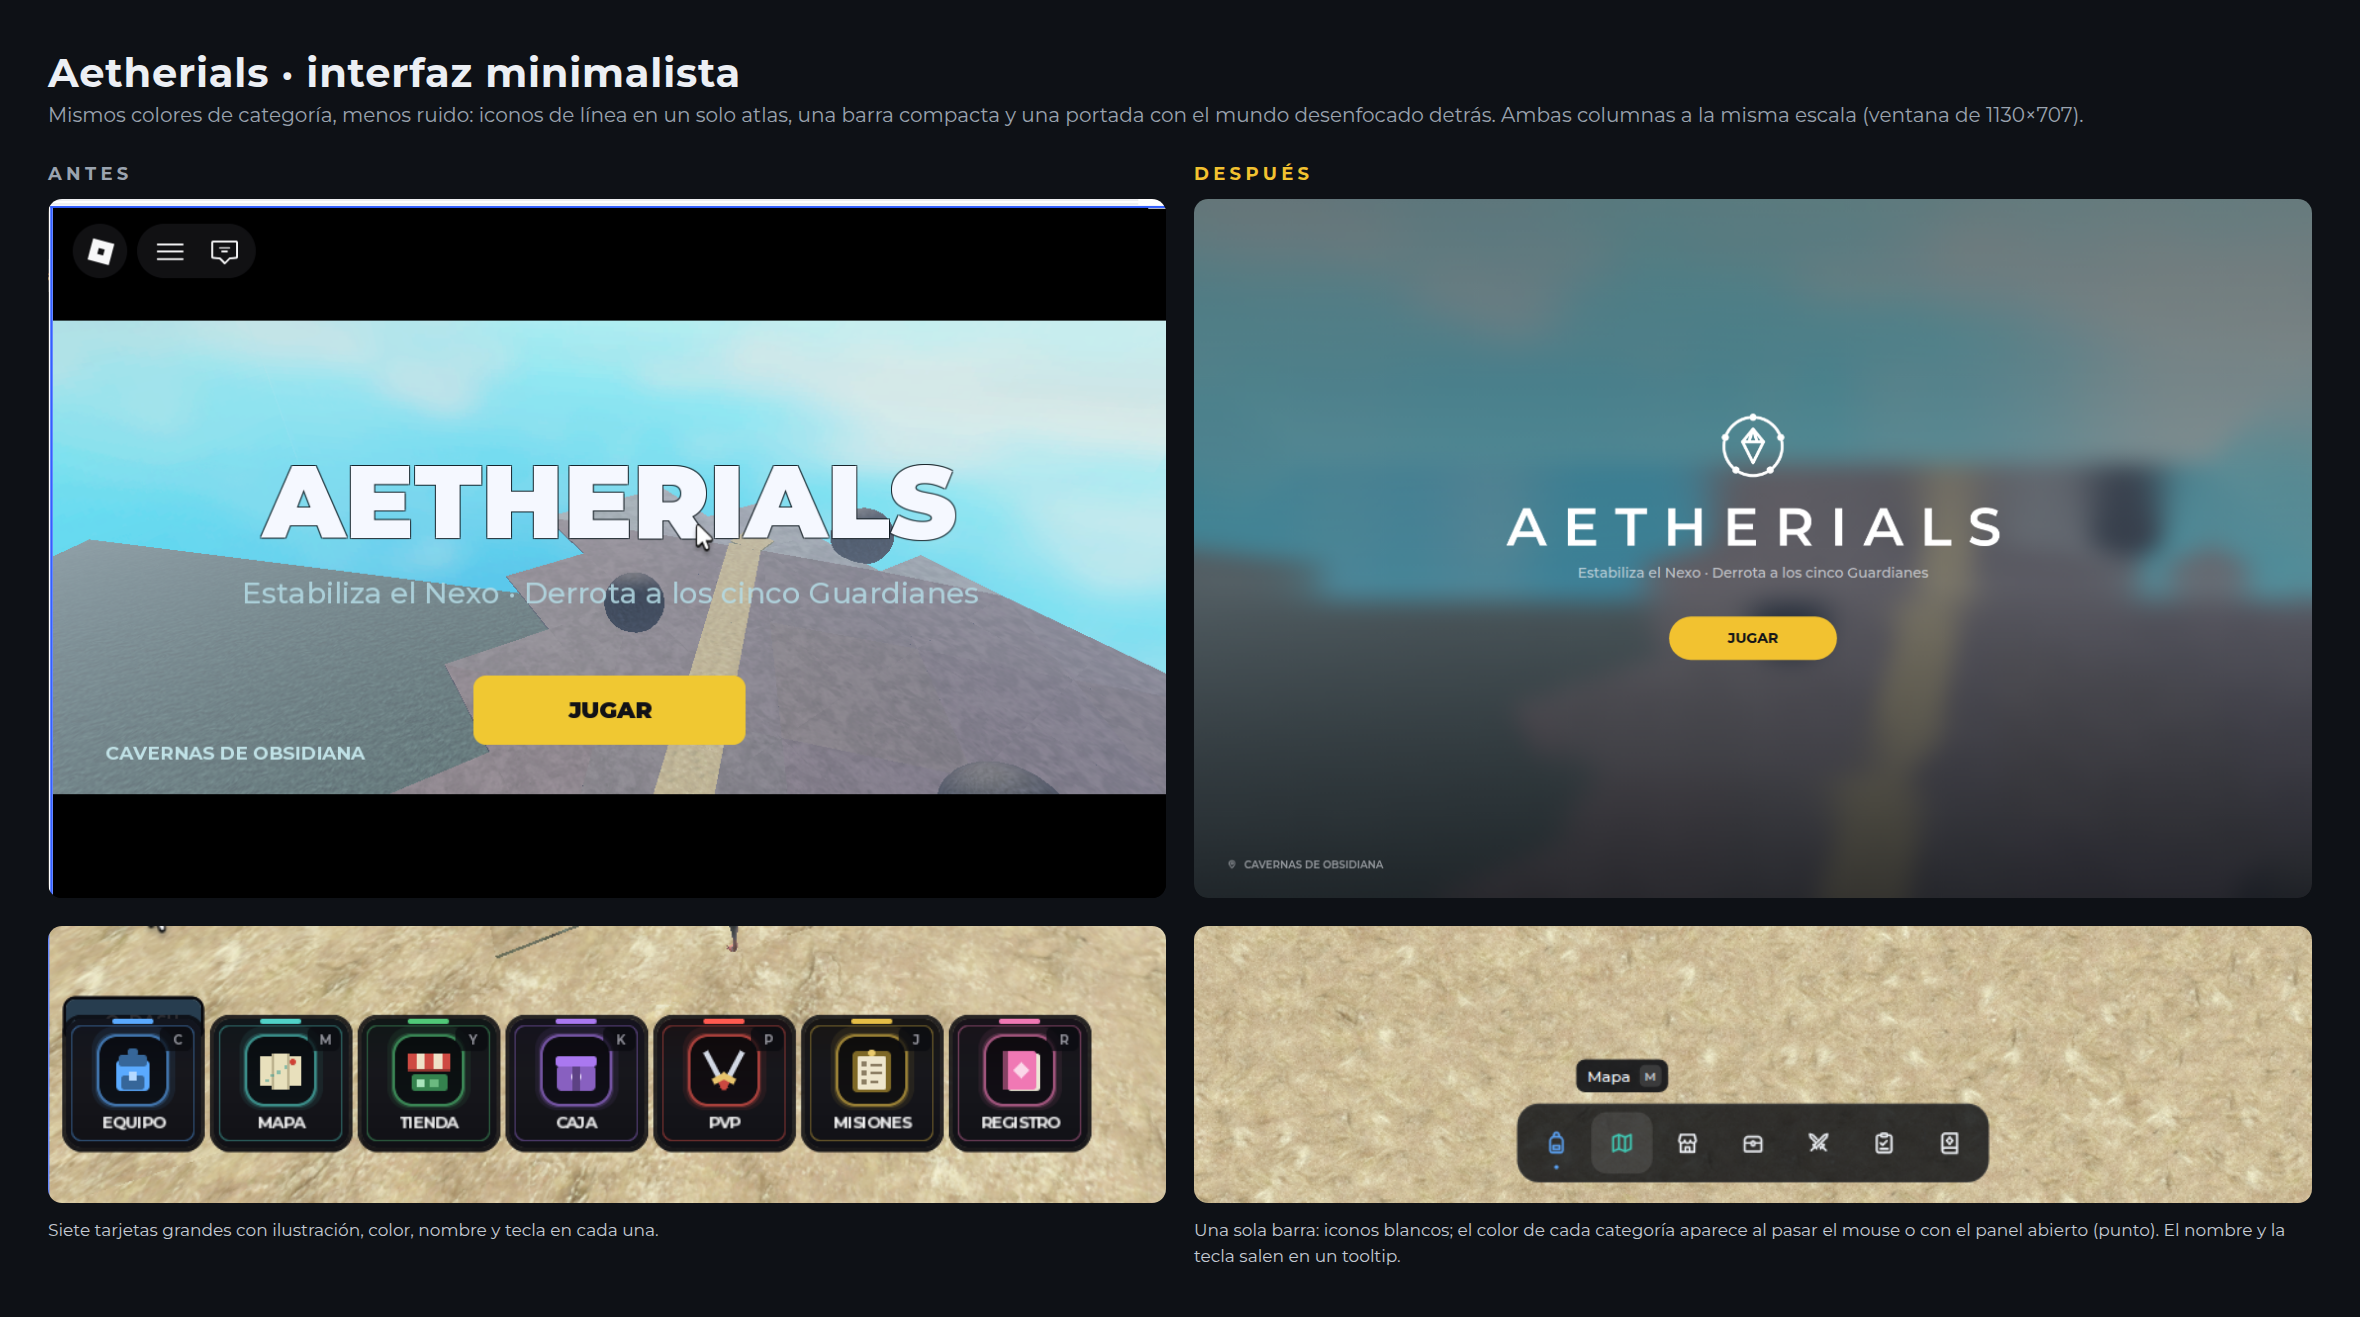
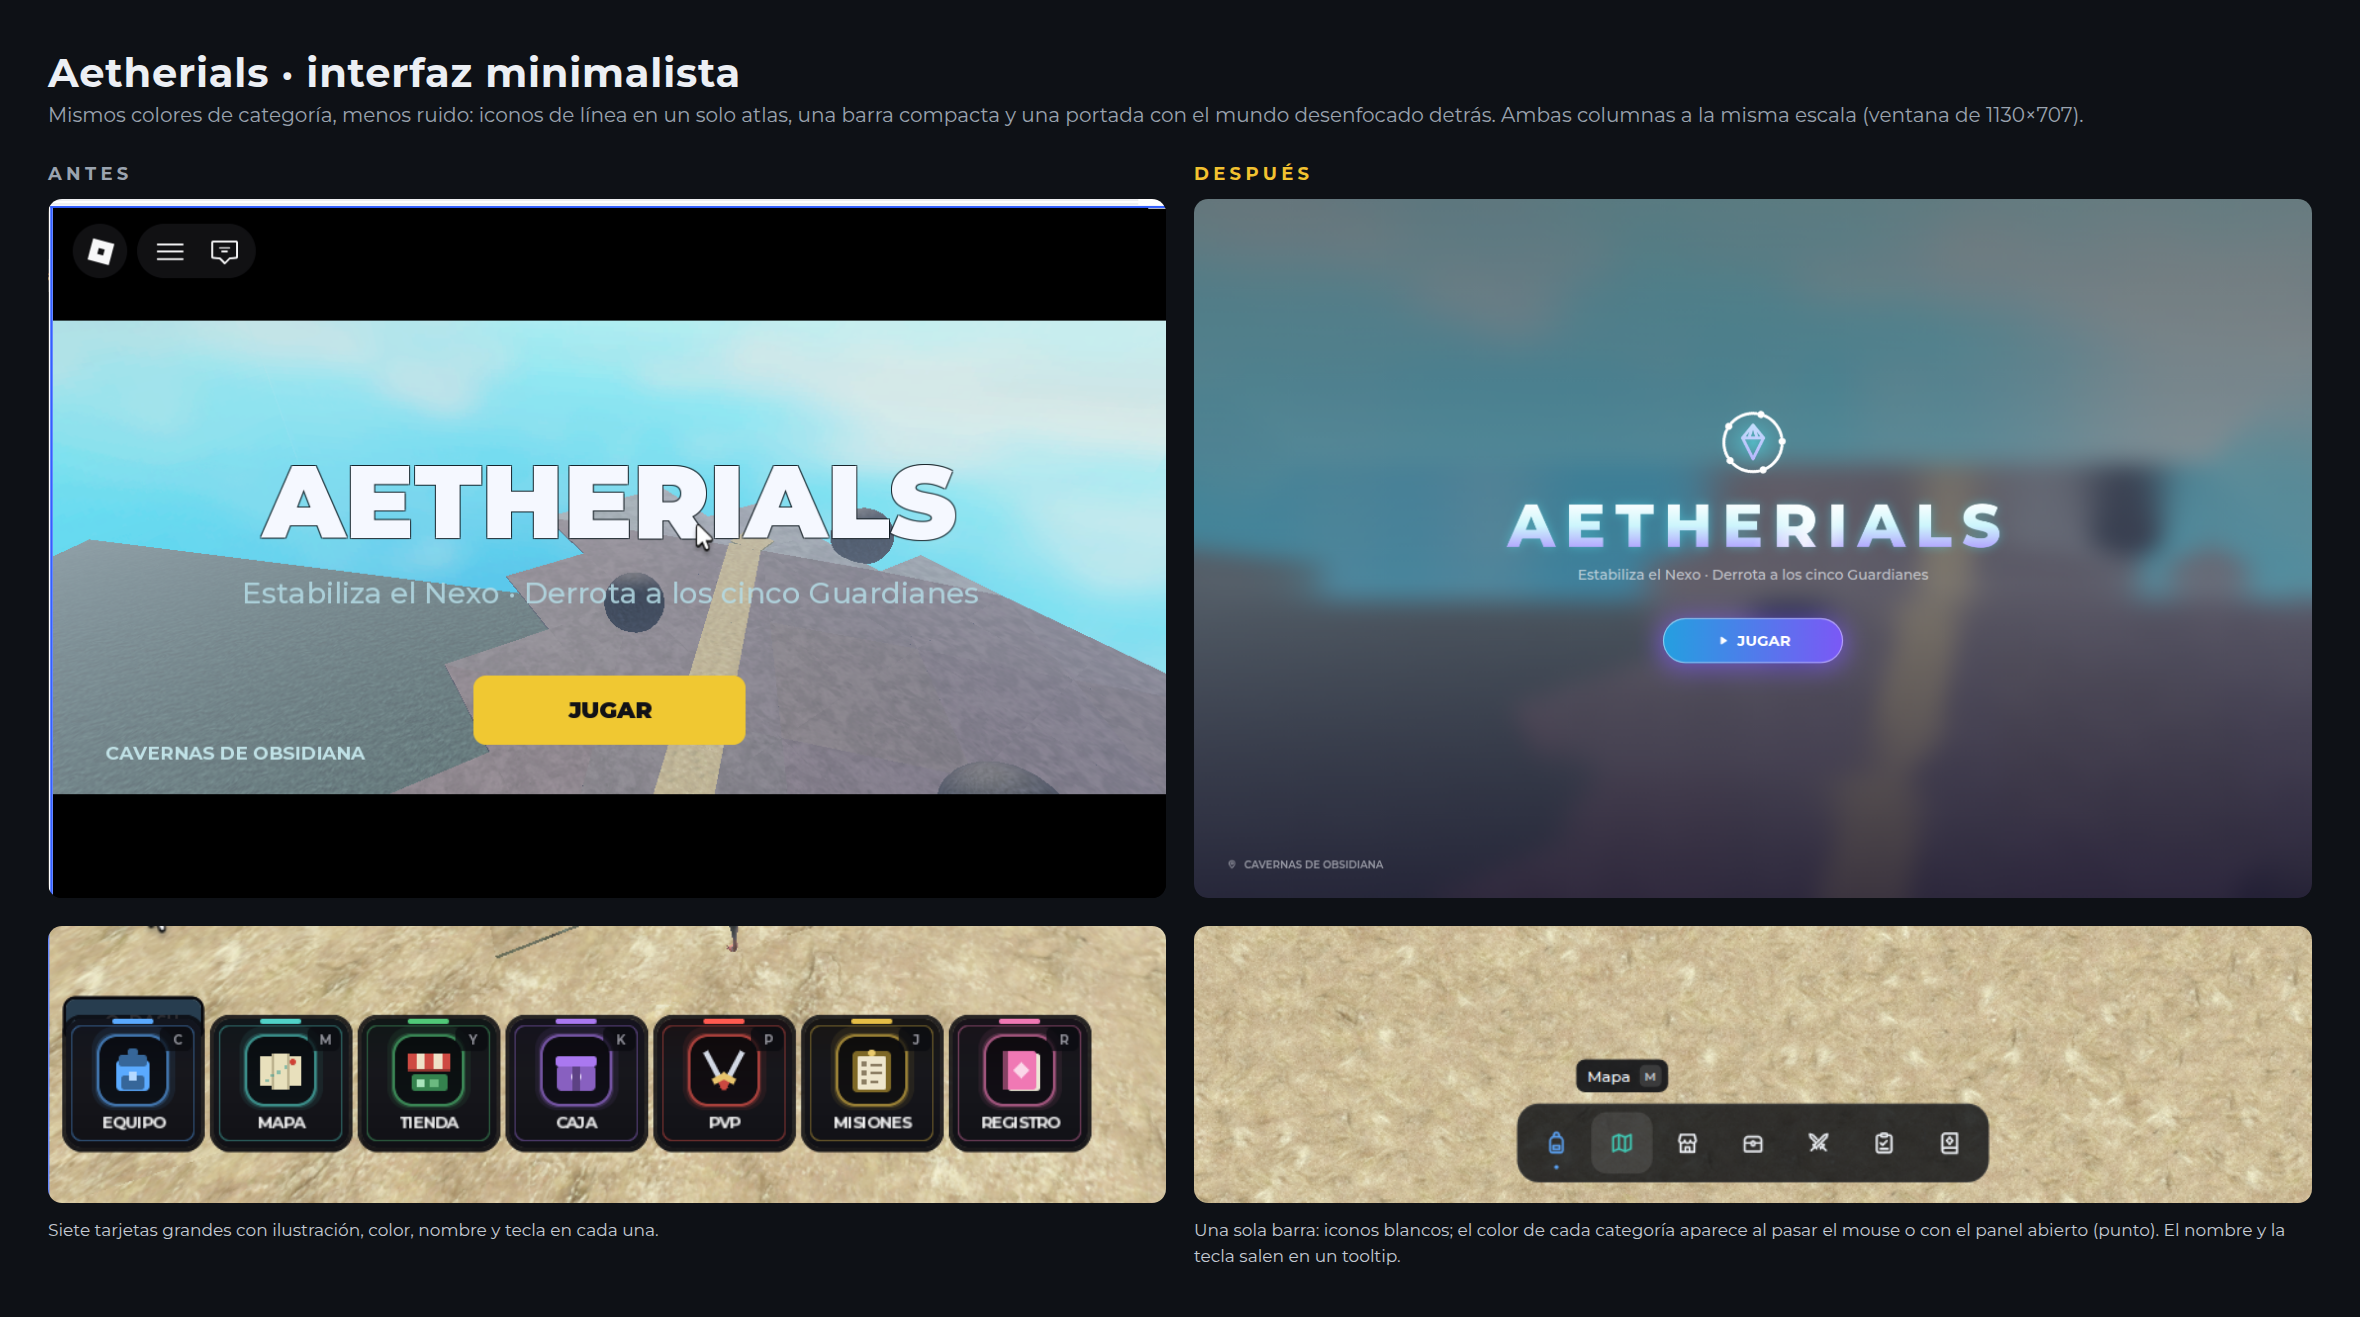
Interfaz: logotipo y JUGAR con colores del éter, halos y destellos
El logotipo pasa a letras gruesas con degradado blanco-hielo-lila, halo cian
que respira y un destello que lo recorre; JUGAR deja el amarillo plano por un
degradado azul-violeta con borde de vidrio, icono de play, halo y brillo. El
atlas suma el icono jugar, el halo del logo, el del botón y un brillo redondo.

Claude-Session: https://claude.ai/code/session_018VhcnLm4cfEdWiz9gtUkJH

Changed region(s): [[0.6186, 0.3113, 0.8661, 0.5292]]

diff --git a/aetherials/fuente/interfaz/render.js b/aetherials/fuente/interfaz/render.js
@@ -54,7 +54,7 @@ function wordmarkHTML(text, px, weight, tracking) {
   }
   // logotipo en grande; el recorte y el escalado final se hacen con PIL
   await page.setViewportSize({ width: 3000, height: 600 });
-  await page.setContent(wordmarkHTML(process.env.LOGO || 'AETHERIALS', 220, process.env.PESO || 600, process.env.TRACK || 0.3));
+  await page.setContent(wordmarkHTML(process.env.LOGO || 'AETHERIALS', 220, process.env.PESO || 800, process.env.TRACK || 0.16));
   await page.evaluate(() => document.fonts.ready);
   const el = await page.$('#t');
   await el.screenshot({ path: path.join(OUT, 'logo_raw.png'), omitBackground: true });

diff --git a/aetherials/fuente/interfaz/iconos.js b/aetherials/fuente/interfaz/iconos.js
@@ -57,6 +57,7 @@ const ICONOS = {
     <path d="M12 21s-6.5-5.6-6.5-11a6.5 6.5 0 0 1 13 0c0 5.4-6.5 11-6.5 11z"/>
     <circle cx="12" cy="10" r="2.3"/>`,
   cerrar: `<path d="M6.5 6.5l11 11M17.5 6.5l-11 11"/>`,
+  jugar: `<path d="M8.5 5.8v12.4a.8.8 0 0 0 1.2.7l9.6-6.2a.8.8 0 0 0 0-1.4L9.7 5.1a.8.8 0 0 0-1.2.7z" fill="#fff"/>`,
 };
 
 // Emblema del Nexo en una grilla de 64: anillo con los cinco Guardianes y el cristal al centro.

diff --git a/aetherials/fuente/interfaz/armar_atlas.py b/aetherials/fuente/interfaz/armar_atlas.py
@@ -5,12 +5,12 @@ Uso (en esta carpeta): node render.js && python3 armar_atlas.py
 import json
 import os
 
-from PIL import Image
+from PIL import Image, ImageDraw, ImageFilter
 
 O = 'out/'
 D = 'sprites/'
 os.makedirs(D + 'iconos', exist_ok=True)
-ICONOS = ['equipo', 'mapa', 'tienda', 'caja', 'pvp', 'misiones', 'registro', 'ubicacion', 'cerrar']
+ICONOS = ['equipo', 'mapa', 'tienda', 'caja', 'pvp', 'misiones', 'registro', 'ubicacion', 'cerrar', 'jugar']
 
 # fondo blanco transparente: al filtrar en Roblox los bordes no se oscurecen
 atlas = Image.new('RGBA', (1024, 1024), (255, 255, 255, 0))
@@ -38,6 +38,37 @@ suelto = Image.new('RGBA', (lw + 32, lh + 32), (255, 255, 255, 0))
 suelto.alpha_composite(logo, (16, 16))
 suelto.save(D + 'Logo_Aetherials.png')
 
+def halo(alpha, radio, refuerzo):
+    """Desenfoca un canal alfa y lo devuelve como sprite blanco (para halos que Roblox tiñe)."""
+    a = alpha.filter(ImageFilter.GaussianBlur(radio)).point(lambda v: min(255, int(v * refuerzo)))
+    img = Image.new('RGBA', alpha.size, (255, 255, 255, 0))
+    img.putalpha(a)
+    return img
+
+
+# halo del logotipo: mismo tamaño de letra que el logo y 32 px de margen
+y = 516 + rects['logo'][3] + 12
+base = Image.new('L', (lw + 64, lh + 64), 0)
+base.paste(logo.getchannel('A'), (32, 32))
+atlas.alpha_composite(halo(base, 10, 1.8), (0, y))
+rects['logo_brillo'] = [0, y, lw + 64, lh + 64]
+
+# halo del botón JUGAR: una píldora de 288x64 desenfocada en 384x160
+y += lh + 64 + 12
+pildora = Image.new('L', (384, 160), 0)
+ImageDraw.Draw(pildora).rounded_rectangle((48, 48, 335, 111), radius=32, fill=255)
+atlas.alpha_composite(halo(pildora, 18, 1.3), (0, y))
+rects['brillo_boton'] = [0, y, 384, 160]
+
+# brillo redondo (detrás del cristal del Nexo)
+redondo = Image.new('L', (128, 128), 0)
+redondo.putdata([int(255 * max(0.0, 1 - ((x - 63.5) ** 2 + (yy - 63.5) ** 2) ** 0.5 / 62) ** 2)
+                 for yy in range(128) for x in range(128)])
+atlas.alpha_composite(halo(redondo, 0, 1.0), (768, 256))
+rects['brillo_redondo'] = [768, 256, 128, 128]
+
 atlas.save(D + 'Aetherials_UI_Atlas.png')
 json.dump(rects, open(D + 'rects.json', 'w'), indent=1)
-print('logo', rects['logo'], '-> copia estos números en SPRITES.logo del script de Roblox')
+for n in ['logo', 'logo_brillo', 'brillo_boton', 'brillo_redondo', 'jugar']:
+    print(n, rects[n])
+

diff --git a/aetherials/interfaz/README.md b/aetherials/interfaz/README.md
@@ -11,12 +11,18 @@ un emblema y el logotipo, todo en **un solo atlas** que se sube una vez a Roblox
   de iconos. El nombre y la tecla aparecen en un tooltip al pasar el mouse.
 - **Se mantienen los colores de cada categoría** (azul, turquesa, verde, morado, rojo, oro, rosa), pero
   solo como acento: el icono se tiñe al pasar el mouse y un punto marca el panel abierto.
-- **Un único color de acción:** el oro del botón JUGAR.
-- **Portada:** el mundo del juego desenfocado detrás (`BlurEffect`), un velo oscuro en degradado, el
-  emblema del Nexo, el logotipo con letras espaciadas, el subtítulo y JUGAR. La zona va abajo a la
-  izquierda, pequeña. Se quitan las barras negras y el contorno grueso del título.
-- **Emblema del Nexo:** el cristal al centro y un anillo con **cinco puntos, los cinco Guardianes**, que
-  gira despacio (una vuelta cada 40 s).
+- **Colores del éter** (cian, hielo, lila y violeta) para la marca: logotipo, emblema y JUGAR.
+- **Portada:** el mundo del juego desenfocado detrás (`BlurEffect`), un velo oscuro que baja a violeta, el
+  emblema del Nexo, el logotipo, el subtítulo y JUGAR. La zona va abajo a la izquierda, pequeña. Se
+  quitan las barras negras y el contorno grueso del título.
+- **Logotipo con vida:** letras gruesas con degradado de blanco a hielo y lila, un halo cian que respira
+  y un destello de luz que lo recorre cada 4 s.
+- **JUGAR:** píldora con degradado azul→violeta, borde de vidrio, icono ▶, un halo violeta que respira y
+  el mismo destello. Al pasar el mouse crece un poco y el halo se enciende.
+- **Emblema del Nexo:** el cristal (con degradado) late sobre un brillo cian y un anillo con **cinco
+  puntos, los cinco Guardianes**, gira despacio (una vuelta cada 40 s).
+
+Todo eso lo hace Roblox con `UIGradient` y `TweenService` sobre sprites blancos: el atlas no lleva colores.
 
 ![Portada](mockups/portada.gif)
 
@@ -26,8 +32,8 @@ un emblema y el logotipo, todo en **un solo atlas** que se sube una vez a Roblox
 
 | Archivo | Contenido |
 |---|---|
-| `sprites/Aetherials_UI_Atlas.png` | **El que se sube a Roblox** (1024×1024): los 9 iconos, el emblema en partes y el logotipo |
-| `sprites/iconos/*.png` | Cada icono suelto a 256×256: equipo, mapa, tienda, caja, pvp, misiones, registro, ubicacion, cerrar |
+| `sprites/Aetherials_UI_Atlas.png` | **El que se sube a Roblox** (1024×1024): los 10 iconos, el emblema en partes, el logotipo y los halos |
+| `sprites/iconos/*.png` | Cada icono suelto a 256×256: equipo, mapa, tienda, caja, pvp, misiones, registro, ubicacion, cerrar, jugar |
 | `sprites/Logo_Aetherials.png` | El logotipo suelto |
 | `sprites/Nexo_Anillo.png`, `Nexo_Cristal.png`, `Nexo_Emblema.png` | El emblema suelto (512×512) |
 
@@ -39,9 +45,12 @@ Posiciones en el atlas (`ImageRectOffset` / `ImageRectSize`):
 | Sprite | x, y, ancho, alto |
 |---|---|
 | equipo · mapa · tienda · caja · pvp · misiones · registro · ubicacion | fila de arriba, celdas de 128 (x = 0, 128, … 896; y = 0) |
-| cerrar | 0, 128, 128, 128 |
+| cerrar · jugar | 0 / 128, 128, 128, 128 |
 | nexo_anillo · nexo_cristal · nexo | 0 / 256 / 512, 256, 256, 256 |
-| logo | 28, 516, 968, 83 |
+| brillo_redondo | 768, 256, 128, 128 |
+| logo | 28, 516, 968, 94 |
+| logo_brillo (halo del logo) | 0, 622, 1024, 150 |
+| brillo_boton (halo de JUGAR) | 0, 784, 384, 160 |
 
 ## Instalarlo en Roblox Studio
 
@@ -81,8 +90,8 @@ que actualiza el texto en vivo) y `POSICION_MENU = "izquierda"` para una barra v
 
 - El script compila sin errores (`luau-compile`) y pasa `luau-lsp analyze` con las definiciones de la API
   de Roblox.
-- Además revisé contra esa API las 184 propiedades que el script asigna, los 29 valores de `Enum` y
-  todos los métodos y eventos que usa: todos existen.
+- Además revisé contra esa API las 262 propiedades que el script asigna y los valores de `Enum`,
+  métodos y eventos que usa: todos existen.
 - Los mockups replican las mismas medidas, colores y fuente (Montserrat) que el script, sobre tus capturas.
 - **No lo pude probar dentro de Roblox Studio.** La primera vez, revisa que tu barra vieja quede desactivada
   (si no, las teclas abrirían los paneles dos veces) y que los nombres de tus paneles coincidan.
